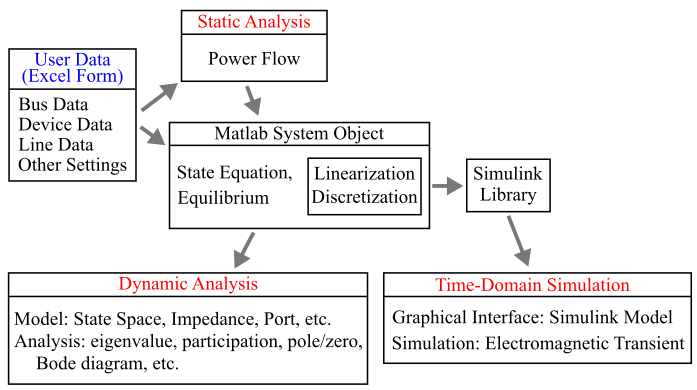
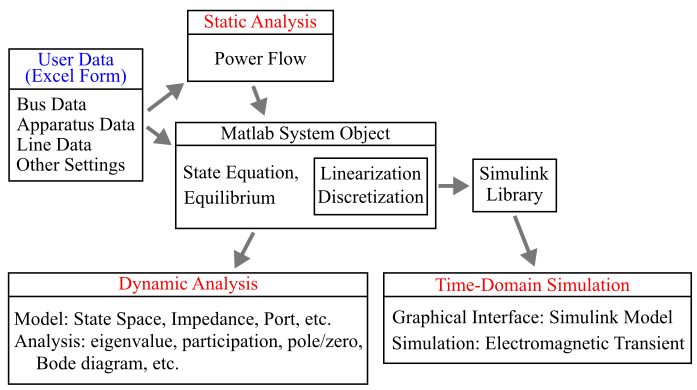
Update architecture figure

Changed region(s): [[0.0, 0.0308, 0.8135, 0.5846], [0.3013, 0.2154, 0.5725, 0.3692], [0.7231, 0.5538, 0.7834, 0.6769]]

diff --git a/+SimplusGT/+Modal/SSCal.m b/+SimplusGT/+Modal/SSCal.m
@@ -1,5 +1,5 @@
 %calculate modes, residues from state-space, based on the modes and
-%devicese the user selected.
+%apparatuses the user selected.
 %Author: Yue Zhu
 function [GbMode,ResidueAll,ZmValAll,ModeTotalNum,ModeDSS,Phi_DSS, IndexSS]=...
     SSCal(GminSS, N_Bus, DeviceType, ModeSelAll, GmDSS_Cell, GsysDSS, DeviceInputStr, DeviceOutputStr)
